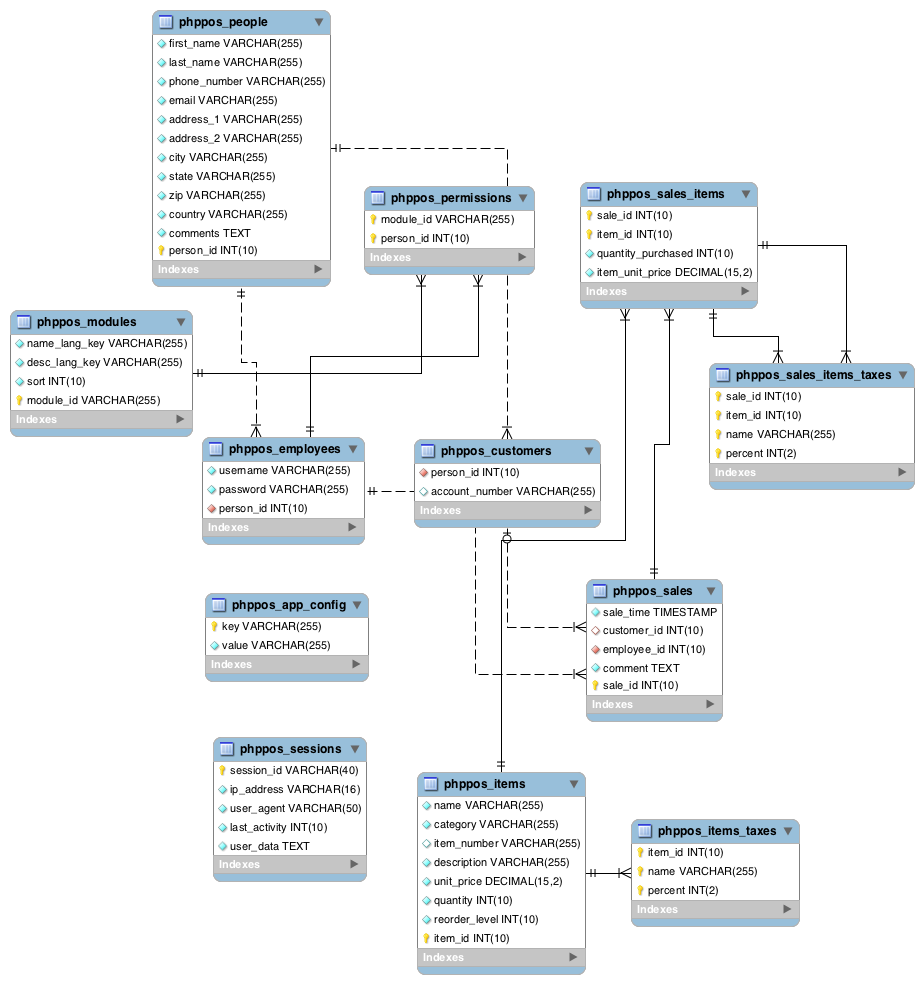
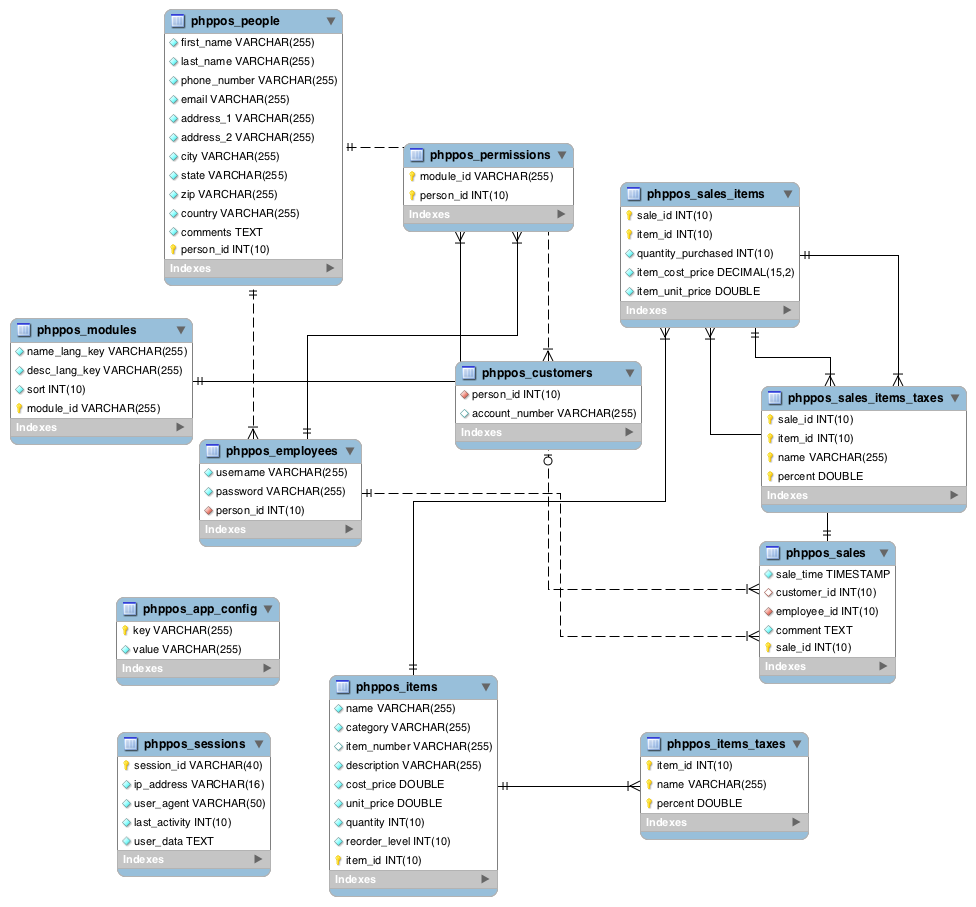
Now tracking profit in reports

Changed region(s): [[0.0, 0.0, 1.0, 1.0]]

diff --git a/application/controllers/reports.php b/application/controllers/reports.php
@@ -31,7 +31,7 @@ class Reports extends Secure_area
 		
 		foreach($report_data as $row)
 		{
-			$tabular_data[] = array($row['sale_date'], to_currency($row['subtotal']), to_currency($row['total']), to_currency($row['tax']));
+			$tabular_data[] = array($row['sale_date'], to_currency($row['subtotal']), to_currency($row['total']), to_currency($row['tax']),to_currency($row['profit']));
 		}
 
 		$data = array(
@@ -55,7 +55,7 @@ class Reports extends Secure_area
 		
 		foreach($report_data as $row)
 		{
-			$tabular_data[] = array($row['category'], to_currency($row['subtotal']), to_currency($row['total']), to_currency($row['tax']));
+			$tabular_data[] = array($row['category'], to_currency($row['subtotal']), to_currency($row['total']), to_currency($row['tax']),to_currency($row['profit']));
 		}
 
 		$data = array(
@@ -79,7 +79,7 @@ class Reports extends Secure_area
 		
 		foreach($report_data as $row)
 		{
-			$tabular_data[] = array($row['customer'], to_currency($row['subtotal']), to_currency($row['total']), to_currency($row['tax']));
+			$tabular_data[] = array($row['customer'], to_currency($row['subtotal']), to_currency($row['total']), to_currency($row['tax']),to_currency($row['profit']));
 		}
 
 		$data = array(
@@ -103,7 +103,7 @@ class Reports extends Secure_area
 		
 		foreach($report_data as $row)
 		{
-			$tabular_data[] = array(character_limiter($row['name'], 16), to_currency($row['subtotal']), to_currency($row['total']), to_currency($row['tax']));
+			$tabular_data[] = array(character_limiter($row['name'], 16), to_currency($row['subtotal']), to_currency($row['total']), to_currency($row['tax']),to_currency($row['profit']));
 		}
 
 		$data = array(
@@ -127,7 +127,7 @@ class Reports extends Secure_area
 		
 		foreach($report_data as $row)
 		{
-			$tabular_data[] = array($row['employee'], to_currency($row['subtotal']), to_currency($row['total']), to_currency($row['tax']));
+			$tabular_data[] = array($row['employee'], to_currency($row['subtotal']), to_currency($row['total']), to_currency($row['tax']),to_currency($row['profit']));
 		}
 
 		$data = array(

diff --git a/application/models/reports/summary_employees.php b/application/models/reports/summary_employees.php
@@ -9,12 +9,12 @@ class Summary_employees extends Report
 	
 	public function getDataColumns()
 	{
-		return array($this->lang->line('reports_employee'), $this->lang->line('reports_subtotal'), $this->lang->line('reports_total'), $this->lang->line('reports_tax'));
+		return array($this->lang->line('reports_employee'), $this->lang->line('reports_subtotal'), $this->lang->line('reports_total'), $this->lang->line('reports_tax'), $this->lang->line('reports_profit'));
 	}
 	
 	public function getData(array $inputs)
 	{
-		$this->db->select('CONCAT(first_name, " ",last_name) as employee, sum(subtotal) as subtotal, sum(total) as total, sum(tax) as tax', false);
+		$this->db->select('CONCAT(first_name, " ",last_name) as employee, sum(subtotal) as subtotal, sum(total) as total, sum(tax) as tax, sum(profit) as profit', false);
 		$this->db->from('sales_items_temp');
 		$this->db->join('employees', 'employees.person_id = sales_items_temp.employee_id');
 		$this->db->join('people', 'employees.person_id = people.person_id');
@@ -27,7 +27,7 @@ class Summary_employees extends Report
 	
 	public function getSummaryData(array $inputs)
 	{
-		$this->db->select('sum(subtotal) as subtotal, sum(total) as total, sum(tax) as tax');
+		$this->db->select('sum(subtotal) as subtotal, sum(total) as total, sum(tax) as tax, sum(profit) as profit');
 		$this->db->from('sales_items_temp');
 		$this->db->join('employees', 'employees.person_id = sales_items_temp.employee_id');
 		$this->db->join('people', 'employees.person_id = people.person_id');

diff --git a/application/models/reports/summary_customers.php b/application/models/reports/summary_customers.php
@@ -9,12 +9,12 @@ class Summary_customers extends Report
 	
 	public function getDataColumns()
 	{
-		return array($this->lang->line('reports_customer'), $this->lang->line('reports_subtotal'), $this->lang->line('reports_total'), $this->lang->line('reports_tax'));
+		return array($this->lang->line('reports_customer'), $this->lang->line('reports_subtotal'), $this->lang->line('reports_total'), $this->lang->line('reports_tax'), $this->lang->line('reports_profit'));
 	}
 	
 	public function getData(array $inputs)
 	{
-		$this->db->select('CONCAT(first_name, " ",last_name) as customer, sum(subtotal) as subtotal, sum(total) as total, sum(tax) as tax', false);
+		$this->db->select('CONCAT(first_name, " ",last_name) as customer, sum(subtotal) as subtotal, sum(total) as total, sum(tax) as tax,sum(profit) as profit', false);
 		$this->db->from('sales_items_temp');
 		$this->db->join('customers', 'customers.person_id = sales_items_temp.customer_id');
 		$this->db->join('people', 'customers.person_id = people.person_id');
@@ -27,7 +27,7 @@ class Summary_customers extends Report
 	
 	public function getSummaryData(array $inputs)
 	{
-		$this->db->select('sum(subtotal) as subtotal, sum(total) as total, sum(tax) as tax');
+		$this->db->select('sum(subtotal) as subtotal, sum(total) as total, sum(tax) as tax, sum(profit) as profit');
 		$this->db->from('sales_items_temp');
 		$this->db->join('customers', 'customers.person_id = sales_items_temp.customer_id');
 		$this->db->join('people', 'customers.person_id = people.person_id');

diff --git a/application/models/reports/summary_categories.php b/application/models/reports/summary_categories.php
@@ -9,12 +9,12 @@ class Summary_categories extends Report
 	
 	public function getDataColumns()
 	{
-		return array($this->lang->line('reports_category'), $this->lang->line('reports_subtotal'), $this->lang->line('reports_total'), $this->lang->line('reports_tax'));
+		return array($this->lang->line('reports_category'), $this->lang->line('reports_subtotal'), $this->lang->line('reports_total'), $this->lang->line('reports_tax'), $this->lang->line('reports_profit'));
 	}
 	
 	public function getData(array $inputs)
 	{
-		$this->db->select('category, sum(subtotal) as subtotal, sum(total) as total, sum(tax) as tax');
+		$this->db->select('category, sum(subtotal) as subtotal, sum(total) as total, sum(tax) as tax, sum(profit) as profit');
 		$this->db->from('sales_items_temp');
 		$this->db->join('items', 'sales_items_temp.item_id = items.item_id');
 		$this->db->where('sale_date BETWEEN "'. $inputs['start_date']. '" and "'. $inputs['end_date'].'"');
@@ -26,7 +26,7 @@ class Summary_categories extends Report
 	
 	public function getSummaryData(array $inputs)
 	{
-		$this->db->select('sum(subtotal) as subtotal, sum(total) as total, sum(tax) as tax');
+		$this->db->select('sum(subtotal) as subtotal, sum(total) as total, sum(tax) as tax, sum(profit) as profit');
 		$this->db->from('sales_items_temp');
 		$this->db->join('items', 'sales_items_temp.item_id = items.item_id');
 		$this->db->where('sale_date BETWEEN "'. $inputs['start_date']. '" and "'. $inputs['end_date'].'"');

diff --git a/application/models/reports/summary_items.php b/application/models/reports/summary_items.php
@@ -9,12 +9,12 @@ class Summary_items extends Report
 	
 	public function getDataColumns()
 	{
-		return array($this->lang->line('reports_item'), $this->lang->line('reports_subtotal'), $this->lang->line('reports_total'), $this->lang->line('reports_tax'));
+		return array($this->lang->line('reports_item'), $this->lang->line('reports_subtotal'), $this->lang->line('reports_total'), $this->lang->line('reports_tax'),$this->lang->line('reports_profit'));
 	}
 	
 	public function getData(array $inputs)
 	{
-		$this->db->select('name, sum(subtotal) as subtotal, sum(total) as total, sum(tax) as tax');
+		$this->db->select('name, sum(subtotal) as subtotal, sum(total) as total, sum(tax) as tax, sum(profit) as profit');
 		$this->db->from('sales_items_temp');
 		$this->db->join('items', 'sales_items_temp.item_id = items.item_id');
 		$this->db->where('sale_date BETWEEN "'. $inputs['start_date']. '" and "'. $inputs['end_date'].'"');
@@ -26,7 +26,7 @@ class Summary_items extends Report
 	
 	public function getSummaryData(array $inputs)
 	{
-		$this->db->select('sum(subtotal) as subtotal, sum(total) as total, sum(tax) as tax');
+		$this->db->select('sum(subtotal) as subtotal, sum(total) as total, sum(tax) as tax, sum(profit) as profit');
 		$this->db->from('sales_items_temp');
 		$this->db->join('items', 'sales_items_temp.item_id = items.item_id');
 		$this->db->where('sale_date BETWEEN "'. $inputs['start_date']. '" and "'. $inputs['end_date'].'"');

diff --git a/application/models/reports/summary_sales.php b/application/models/reports/summary_sales.php
@@ -9,12 +9,12 @@ class Summary_sales extends Report
 
 	public function getDataColumns()
 	{
-		return array($this->lang->line('reports_date'), $this->lang->line('reports_subtotal'), $this->lang->line('reports_total'), $this->lang->line('reports_tax'));
+		return array($this->lang->line('reports_date'), $this->lang->line('reports_subtotal'), $this->lang->line('reports_total'), $this->lang->line('reports_tax'), $this->lang->line('reports_profit'));
 	}
 	
 	public function getData(array $inputs)
 	{		
-		$this->db->select('sale_date, sum(subtotal) as subtotal, sum(total) as total, sum(tax) as tax');
+		$this->db->select('sale_date, sum(subtotal) as subtotal, sum(total) as total, sum(tax) as tax,sum(profit) as profit');
 		$this->db->from('sales_items_temp');
 		$this->db->group_by('sale_date');
 		$this->db->having('sale_date BETWEEN "'. $inputs['start_date']. '" and "'. $inputs['end_date'].'"');
@@ -24,7 +24,7 @@ class Summary_sales extends Report
 	
 	public function getSummaryData(array $inputs)
 	{
-		$this->db->select('sum(subtotal) as subtotal, sum(total) as total, sum(tax) as tax');
+		$this->db->select('sum(subtotal) as subtotal, sum(total) as total, sum(tax) as tax,sum(profit) as profit');
 		$this->db->from('sales_items_temp');
 		$this->db->where('sale_date BETWEEN "'. $inputs['start_date']. '" and "'. $inputs['end_date'].'"');
 		return $this->db->get()->row_array();		

diff --git a/application/models/reports/report.php b/application/models/reports/report.php
@@ -27,11 +27,13 @@ abstract class Report extends Model
 	//We create a temp table that allows us to do easy report queries
 	public function createSalesItemsTempTable()
 	{
-		$this->db->query("CREATE TEMPORARY TABLE ".$this->db->dbprefix('sales_items_temp')." 
-		(SELECT date(sale_time) as sale_date, sale_id, customer_id, employee_id, item_id, quantity_purchased, item_unit_price, SUM(percent) as item_tax_percent, 
+		$this->db->query("CREATE TABLE ".$this->db->dbprefix('sales_items_temp')." 
+		(SELECT date(sale_time) as sale_date, sale_id, customer_id, employee_id, item_id, quantity_purchased, item_cost_price, item_unit_price, SUM(percent) as item_tax_percent, 
 		(item_unit_price*quantity_purchased) as subtotal,
 		ROUND((item_unit_price*quantity_purchased)*(1+(SUM(percent)/100)),2) as total,
-		ROUND((item_unit_price*quantity_purchased)*(SUM(percent)/100),2) as tax
+		ROUND((item_unit_price*quantity_purchased)*(SUM(percent)/100),2) as tax,
+		(item_unit_price*quantity_purchased) - (item_cost_price*quantity_purchased) as profit
+
 		FROM ".$this->db->dbprefix('sales_items')."
 		INNER JOIN ".$this->db->dbprefix('sales')." USING (sale_id) 
 		LEFT OUTER JOIN ".$this->db->dbprefix('sales_items_taxes')." USING (sale_id, item_id)

diff --git a/application/language/english/reports_lang.php b/application/language/english/reports_lang.php
@@ -16,6 +16,7 @@ $lang['reports_employees'] = 'Employees';
 $lang['reports_subtotal'] = 'Subtotal';
 $lang['reports_total'] = 'Total';
 $lang['reports_tax'] = 'Tax';
+$lang['reports_profit'] = 'Profit';
 $lang['reports_report_input'] = 'Report Input';
 $lang['reports_type'] = 'Type';
 $lang['reports_date_range'] = 'Date Range';

diff --git a/application/views/login.php b/application/views/login.php
@@ -14,7 +14,7 @@ $(document).ready(function()
 </script>
 </head>
 <body>
-<h1>PHP Point Of Sale 10.0 Alpha 2</h1>
+<h1>PHP Point Of Sale 10.0 Alpha 3</h1>
 <h3>Username/Password = admin/pointofsale
 <?php echo form_open('login') ?>
 <div id="container">
